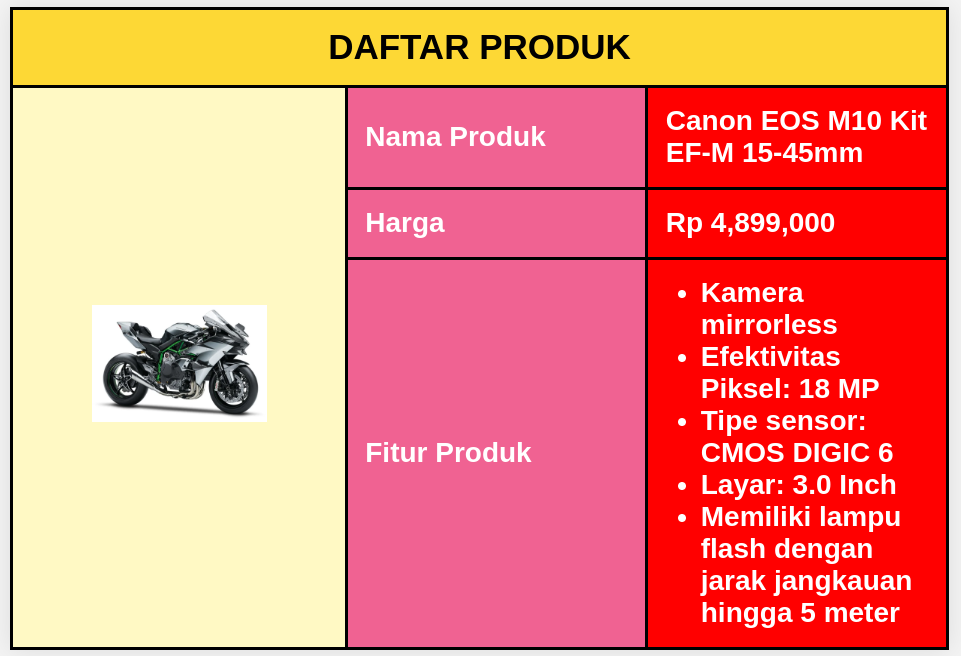
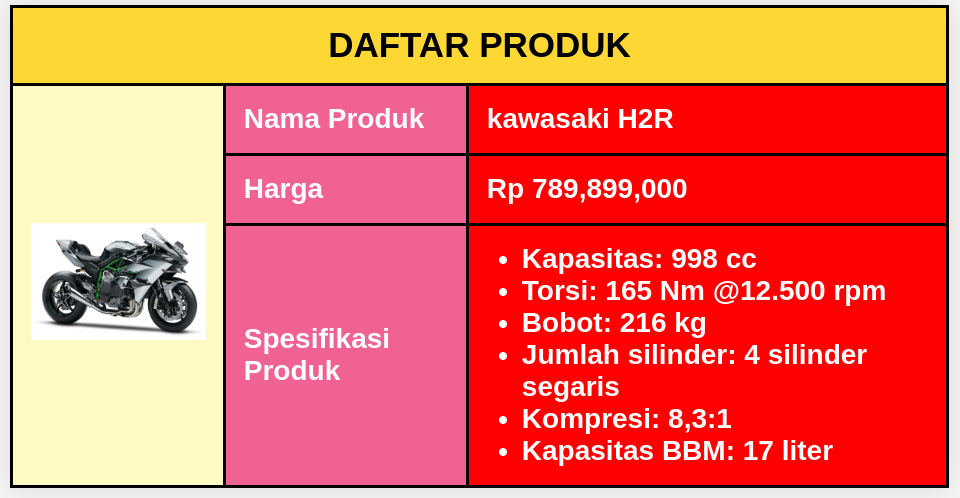
ubah: fix

diff --git a/index.html b/index.html
@@ -19,21 +19,22 @@
                     <img src="img/kawasaki-h2r.jpg" alt="Camera with Pikachu" />
                 </td>
                 <td class="table-name">Nama Produk</td>
-                <td class="table-product">Canon EOS M10 Kit EF-M 15-45mm</td>
+                <td class="table-product">kawasaki H2R</td>
             </tr>
             <tr>
                 <td class="table-price">Harga</td>
-                <td class="table-product-price">Rp 4,899,000</td>
+                <td class="table-product-price">Rp 789,899,000</td>
             </tr>
             <tr>
-                <td class="table-specification">Fitur Produk</td>
+                <td class="table-specification">Spesifikasi Produk</td>
                 <td class="table-list">
                     <ul>
-                        <li>Kamera mirrorless</li>
-                        <li>Efektivitas Piksel: 18 MP</li>
-                        <li>Tipe sensor: CMOS DIGIC 6</li>
-                        <li>Layar: 3.0 Inch</li>
-                        <li>Memiliki lampu flash dengan jarak jangkauan hingga 5 meter</li>
+                        <li>Kapasitas: 998 cc</li>
+                        <li>Torsi: 165 Nm @12.500 rpm</li>
+                        <li>Bobot: 216 kg</li>
+                        <li>Jumlah silinder: 4 silinder segaris</li>
+                        <li>Kompresi: 8,3:1</li>
+                        <li>Kapasitas BBM: 17 liter</li>
                     </ul>
                 </td>
             </tr>

diff --git a/style.css b/style.css
@@ -60,7 +60,7 @@ tbody td {
 .table-product-price {
     background-color: red;
     color: white;
-    width: 150px;
+    width: 400px;
     font-weight: bold;
 }
 
@@ -73,7 +73,7 @@ tbody td {
 .table-list {
     background-color: red;
     color: white;
-    width: 150px;
+    width: 400px;
     font-weight: bold;
 }
 
